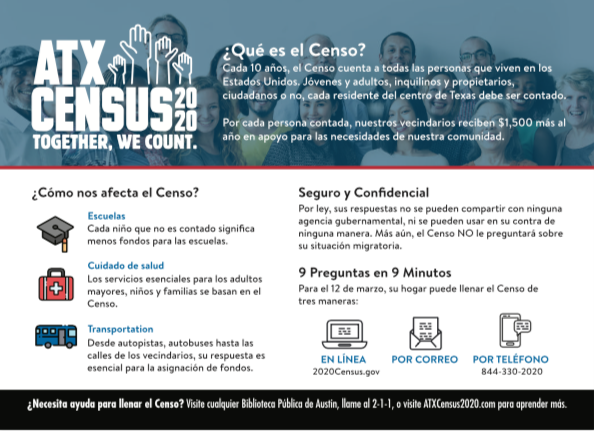
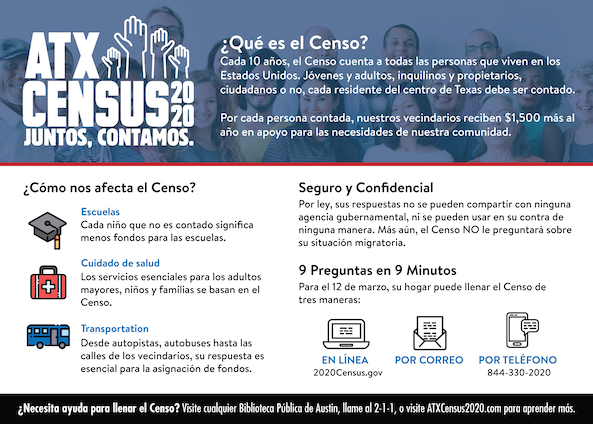
update postcard
closes #134

diff --git a/gatsby/src/components/shared/BasicTitleText.js b/gatsby/src/components/shared/BasicTitleText.js
@@ -6,7 +6,7 @@ const BasicTitleText = ({ data, lang }) => {
     <section className="usa-section grid-container padding-top-3 padding-bottom-3">
       <h2 className="text-center font-heading-xl">{data.title}</h2>
       <div className="usa-intro grid-row padding-y-4">
-        <div className="grid-col-10 grid-offset-1 grid-row">
+        <div className="grid-col-10 grid-offset-1">
           <ReactMarkdown source={data.text} escapeHtml={false} />
         </div>
       </div>
